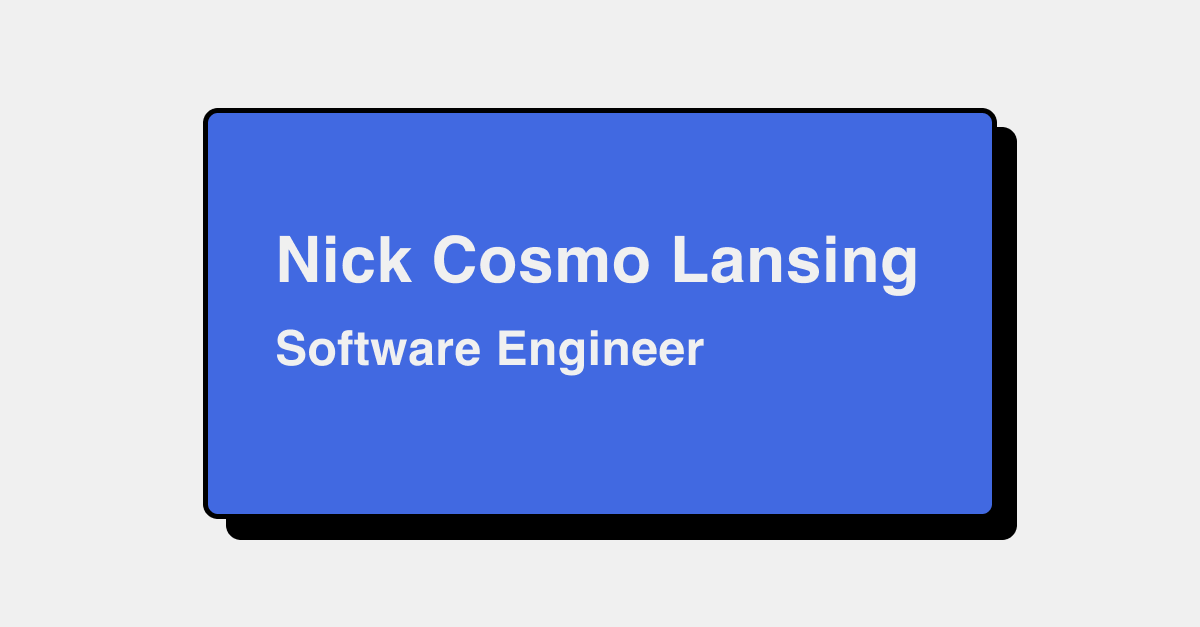
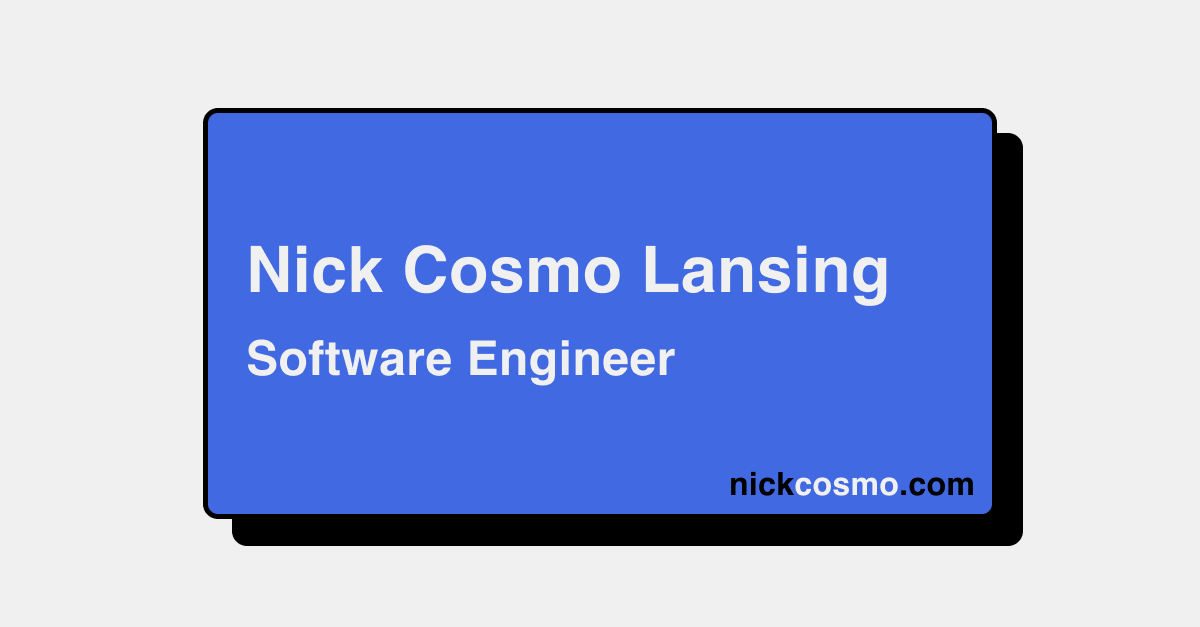
add og images and footer

Changed region(s): [[0.185, 0.3636, 0.7708, 0.4848], [0.185, 0.1818, 0.8633, 0.8788], [0.185, 0.5152, 0.5858, 0.6364]]

diff --git a/src/styles/globals.css b/src/styles/globals.css
@@ -25,6 +25,7 @@ body {
 body {
   margin: auto;
   max-width: 800px;
+  min-height: 100vh;
   overflow-y: scroll;
   display: flex;
   flex-direction: column;
@@ -35,6 +36,10 @@ body {
   font-size: 22px;
 }
 
+main {
+  flex: 1;
+}
+
 button {
   background-color: var(--accent-color);
   color: var(--primary-color);
@@ -43,8 +48,13 @@ button {
 }
 
 h1 {
+  color: var(--accent-color);
   font-size: 64px;
   line-height: 75px;
+}
+
+h2 {
+  color: var(--accent-color);
 }
 
 a {
@@ -65,7 +75,7 @@ p {
 
 .bordered {
   border: solid 2px var(--secondary-color);
-  border-radius: 8px;
+  border-radius: 10px;
   transition: all 0.2s ease;
 }
 

diff --git a/src/blog/Auto-Incrementing Version Column With PostgreSQL Triggers.md b/src/blog/Auto-Incrementing Version Column With PostgreSQL Triggers.md
@@ -2,6 +2,7 @@
 title: Auto-Incrementing Version Column With PostgreSQL Triggers
 description: Learn how to create a PostgreSQL trigger to automatically increment a version column on updates, ensuring data integrity and simplifying version management.
 tags: ["PostgreSQL", "Triggers", "Database"]
+ogImage: og-images/auto-incrementing-version-column-with-postgres-triggers.png
 author: Nick Cosmo
 published: 2025-07-23
 ---

diff --git a/src/blog/Using Function Parameters with Conditional Types in Typescript.md b/src/blog/Using Function Parameters with Conditional Types in Typescript.md
@@ -2,6 +2,7 @@
 title: Using Function Parameters with Conditional Types in Typescript
 description: A guide on how to use function parameters with conditional types in TypeScript to create flexible and type-safe functions.
 tags: ["TypeScript", "Conditional Types", "Programming"]
+ogImage: og-images/using-function-parameters-with-conditional-types-typescript.png
 author: Nick Cosmo
 published: 2024-04-04
 ---

diff --git a/README.md b/README.md
@@ -7,9 +7,10 @@ The site is built using [Astro](https://astro.build/).
 
 ## TODO
 
-- [ ] Add footer
-- [ ] og images for blog posts
 - [ ] Add tags for blog posts
+- [ ] View/Page transitions
+- [X] Add footer
+- [X] og images for blog posts
 - [X] mobile styling for new header
 - [X] better styling for blog posts - target links, code blocks, images, etc.
 - [X] Add layout for blog posts

diff --git a/src/blog/Reusable NestJS Interceptors with a Factory Pattern.md b/src/blog/Reusable NestJS Interceptors with a Factory Pattern.md
@@ -2,6 +2,7 @@
 title: Reusable NestJS Interceptors with a Factory Pattern
 description: Learn how to create reusable NestJS interceptors using a factory pattern to reduce code duplication and improve maintainability.
 tags: ["NestJS", "Interceptors", "Factory Pattern"]
+ogImage: og-images/reusable-nestjs-interceptors-factory-pattern.png
 author: Nick Cosmo
 published: 2025-05-25
 ---

diff --git a/src/blog/Concurrency Post with Row Level Locking/Handling Concurrency with Row Level Locking in PostgreSQL.md b/src/blog/Concurrency Post with Row Level Locking/Handling Concurrency with Row Level Locking in PostgreSQL.md
@@ -2,6 +2,7 @@
 title: Handling Concurrency with Row Level Locking in PostgreSQL
 description: A guide on how to handle concurrency issues in PostgreSQL using row-level locking with SELECT ... FOR UPDATE.
 tags: ["PostgreSQL", "Concurrency", "Database"]
+ogImage: og-images/handling-concurrency-with-row-level-locking-postgres.png
 author: Nick Cosmo
 published: 2025-06-20
 ---
